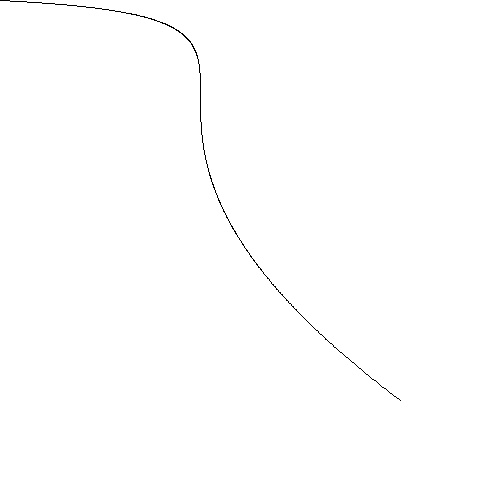
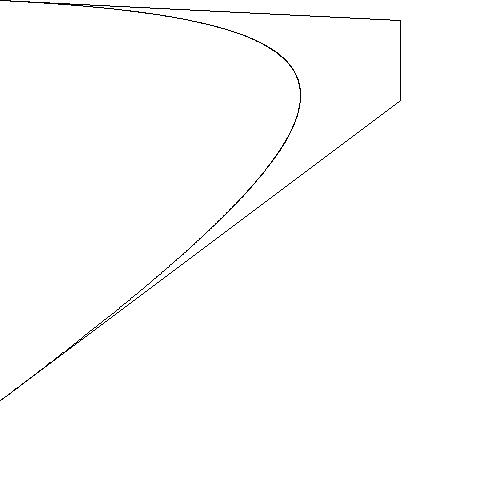
refactor lab4

diff --git a/lab4/main.cpp b/lab4/main.cpp
@@ -5,6 +5,7 @@ using namespace std;
 using namespace cv;
 
 enum CLPointType {LEFT, RIGHT, BEYOND, BEHIND, BETWEEN, ORIGIN, DESTINATION};
+enum polygonOrientation {CW, CCW};
 
 CLPointType classify(Point p1, Point p2, Point p) {
     double ax = p2.x - p1.x;
@@ -82,8 +83,27 @@ void drawLine(Mat &img, Point p1, Point p2) {
     }
 }
 
-Point getCubicBezierCurvePoint(Point p0, Point p1, Point p2, Point p3, double t)
-{
+polygonOrientation getPolygonOrientation(vector<Point> points) {
+    int n = points.size();
+    int sum = 0;
+
+    for (int i = 0; i < n; ++i) {
+        sum += (points[(i + 1) % n].x - points[i].x) * (points[(i + 1) % n].y + points[i].y);
+    }
+
+    return (sum > 0) ? CW : CCW;
+}
+
+vector<Point> reorientPolygon(vector<Point> points) {
+    vector<Point> newPolygon;
+    newPolygon.push_back(points[0]);
+    for (int i = points.size() - 1; i >= 1; --i) {
+        newPolygon.push_back(points[i]);
+    }
+    return newPolygon;
+}
+
+Point getCubicBezierCurvePoint(Point p0, Point p1, Point p2, Point p3, double t) {
     double B0 = (1 - t) * (1 - t) * (1 - t);
     double B1 = 3 * t * (1 - t) * (1 - t);
     double B2 = 3 * t * t * (1 - t);
@@ -93,18 +113,19 @@ Point getCubicBezierCurvePoint(Point p0, Point p1, Point p2, Point p3, double t)
     return Point(x, y);
 }
 
-void drawCubicBezierCurve(Mat &img, Point p0, Point p1, Point p2, Point p3, int N)
-{
+void drawCubicBezierCurve(Mat &img, Point p0, Point p1, Point p2, Point p3, int N) {
     double step = 1.0 / (N - 1);
-    for (int i = 0; i < N; ++i)
-    {
+    for (int i = 0; i < N; ++i) {
         Point p = getCubicBezierCurvePoint(p0, p1, p2, p3, i * step);
         Point q = getCubicBezierCurvePoint(p0, p1, p2, p3, (i + 1) * step);
         drawLine(img, p, q);
     }
+    drawLine(img, p0, p1);
+    drawLine(img, p1, p2);
+    drawLine(img, p2, p3);
 }
 
-int CyrusBeckClipLine(Point& p1, Point& p2, std::vector<Point> points) {
+int CyrusBeckClipLine(Point& p1, Point& p2, vector<Point> points) {
     int n = points.size();
     Point new_p1, new_p2;
     double t1 = 0, t2 = 1, t;
@@ -147,35 +168,48 @@ int CyrusBeckClipLine(Point& p1, Point& p2, std::vector<Point> points) {
     return 0;
 }
 
-void drawPolygon(Mat& img, std::vector<Point>& points) {
+void drawPolygon(Mat& img, vector<Point>& points) {
     for (int i = 0; i < points.size(); ++i) {
         drawLine(img, points[i], points[(i + 1) % points.size()]);
     }
 }
 
-void clipLine(Mat &img, Point p1, Point p2, std::vector<Point> points) {
+void clipLine(Mat &img, Point p1, Point p2, vector<Point> points) {
     Point point1 = p1, point2 = p2;
+    if (getPolygonOrientation(points) == CCW) {
+        points = reorientPolygon(points);
+    }
     if (CyrusBeckClipLine(point1, point2, points)) {
         drawLine(img, point1, point2);
     }
     else {
-        std::cout << "Line can't be clipped";
+        cout << "Line can't be clipped";
     }
 }
 
 int main() {
     Mat img(500, 500, CV_8UC3, Scalar(255, 255, 255));
     int n;
-    std::cin >> n;
-    std::vector<Point> points;
+    cin >> n;
+    vector<Point> points;
     for (int i = 0; i < n; ++i) {
         int x, y;
-        std::cin >> x >> y;
+        cin >> x >> y;
         points.push_back(Point(x, y));
     }
-    // drawCubicBezierCurve(img, Point(0, 0), Point(400, 20), Point(0, 100), Point(400, 400), 1000);
-    drawPolygon(img, points);
-    clipLine(img, Point(220, 320), Point(320, 220), points);
-    imwrite("../out/clipped_line.jpg", img);
+    vector<pair<Point, Point>> lines = {{Point(220, 320), Point(320, 220)}, {Point(210, 210), Point(290, 290)}, {Point(190, 190), Point(150, 150)}};
+    for (int i = 0; i < lines.size(); ++i) {
+        drawPolygon(img, points);
+        drawLine(img, lines[i].first, lines[i].second);
+        imwrite("../out/before_clipping" + to_string(i) + ".jpg", img);
+        img.setTo(Scalar(255, 255, 255));
+        drawPolygon(img, points);
+        clipLine(img, lines[i].first, lines[i].second, points);
+        imwrite("../out/clipped_line" + to_string(i) + ".jpg", img);
+        img.setTo(Scalar(255, 255, 255));
+    }
+    drawCubicBezierCurve(img, Point(0, 0), Point(400, 20), Point(400, 100), Point(0, 400), 1000);
+    imwrite("../out/curve_bezier.jpg", img);
+
     return 0;
 }
